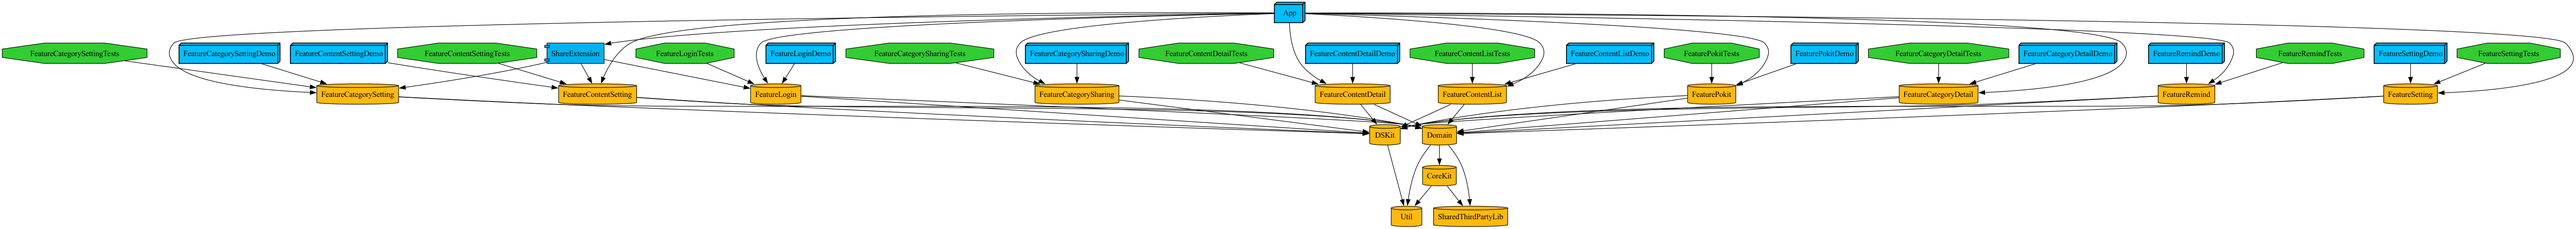
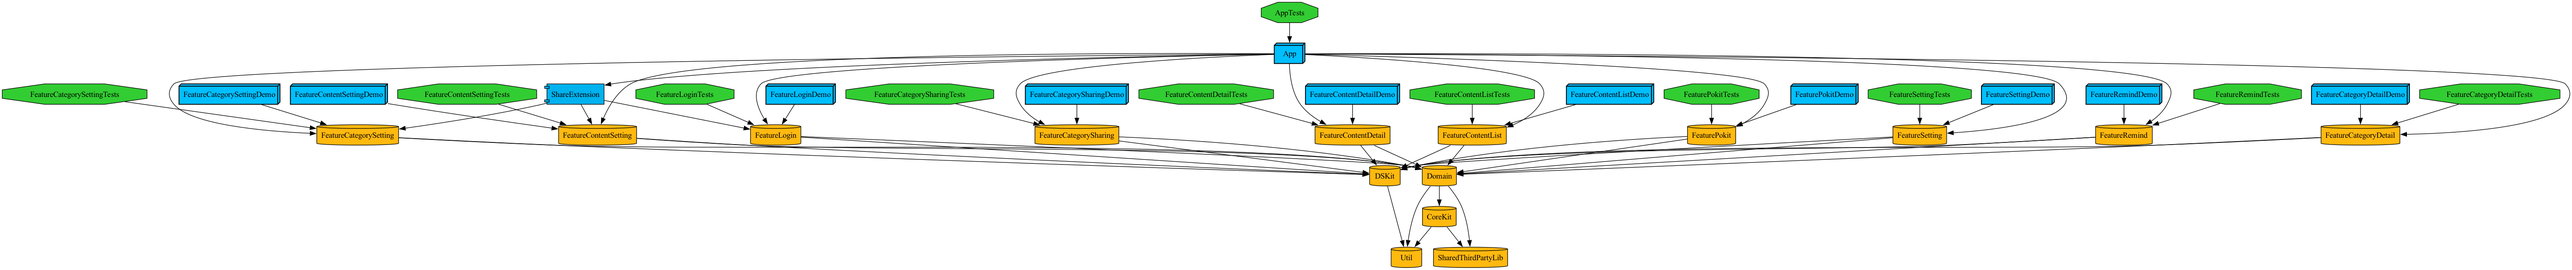
[feat] #146 App 테스트 타겟 추가

Changed region(s): [[0.0, 0.0, 1.0, 1.0], [0.9018, 0.1187, 0.9639, 0.1484], [0.0933, 0.1187, 0.1555, 0.1484]]

diff --git a/Projects/App/Project.swift b/Projects/App/Project.swift
@@ -72,6 +72,17 @@ let projectTarget: Target = .target(
     )
 )
 
+let appTestTarget: Target = .makeTarget(
+    name: "AppTests",
+    product: .unitTests,
+    bundleName: "AppTests",
+    infoPlist: .dictionary(["ENABLE_TESTING_SEARCH_PATHS": "YES"]),
+    resources: ["AppTests/Resources/**"],
+    dependencies: [
+        .target(projectTarget)
+    ]
+)
+
 let project = Project(
     name: "App",
     options: .options(
@@ -80,6 +91,7 @@ let project = Project(
     ),
     targets: [
         projectTarget,
+        appTestTarget,
         shareExtensionTarget
     ]
 )

diff --git a/Projects/App/AppTests/Sources/AppTests.swift b/Projects/App/AppTests/Sources/AppTests.swift
@@ -1,0 +1,10 @@
+import ComposableArchitecture
+import XCTest
+
+@testable import App
+
+final class AppTests: XCTestCase {
+    func test() {
+    
+    }
+}
